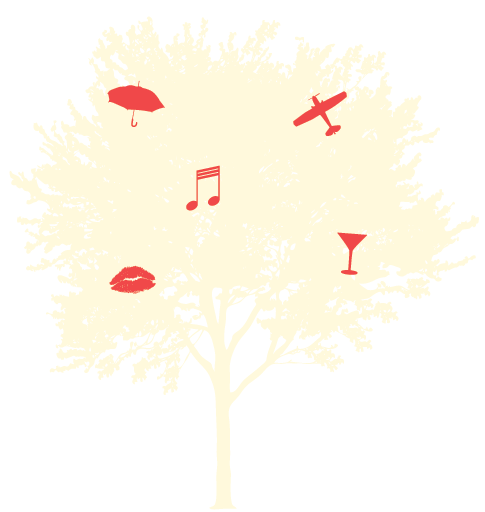
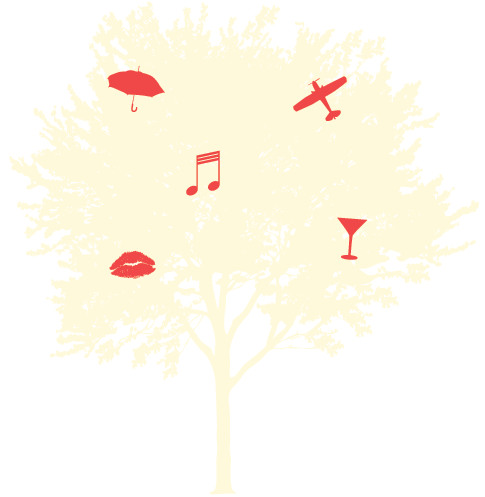
EmirH: new design

diff --git a/CSS/Home.css b/CSS/Home.css
@@ -1,22 +1,37 @@
 @CHARSET "UTF-8";
 
 div.Menu {
+	min-width: 1200px;
+	height: 70px;
+	line-height: 70px;
 	background-color: #F5C1B7;
-	text-align: center;
-}
-
-div.Menu a {
-	color: #E36D6E;
-}
-
-div.Monogram {
-	padding: 234px;
-	text-align: center;
-}
-
-div.stick {
+	font-size: 17px;
 	width: 100%;
 	position: fixed;
 	top: 0px;
 	z-index: 10000;
+	margin-top: 10px;
+	width: 100%;
 }
+
+div.Menu a {
+	color: #E36D6E;
+	text-decoration: none;
+}
+
+div.Menu a:hover {
+	color: #F66768;
+	font-weight: bold;
+}
+
+div.Monogram {
+	padding-top: 234px;
+}
+div.Banner_02 {
+	padding-top: 10px;
+}
+
+div.Center {
+	text-align: center;
+}
+

diff --git a/CSS/Body.css b/CSS/Body.css
@@ -11,14 +11,6 @@ body {
 	font-size: 20px;
 }
 
-a {
-	text-decoration: none;
-}
-
-a:hover {
-	text-decoration: underline;
-}
-
 div {
 	margin: 0px;
 	padding: 0px;

diff --git a/Home.php b/Home.php
@@ -4,8 +4,6 @@
 	DomManager::addCSS('CSS/Home.css');
 	DomManager::addCSS('CSS/Strips.css');
 	DomManager::addScript('Scripts/Utils/jquery-1.8.3.min.js');
-	DomManager::addScript('Scripts/Utils/Async.js');
-	DomManager::addScript('Scripts/Main.js');
 ?>
 
 <!DOCTYPE html PUBLIC "-//W3C//DTD HTML 4.01 Strict//EN" "http://www.w3.org/TR/html4/strict.dtd">
@@ -19,15 +17,7 @@
 
 	</head>
 	<body>
-		<div class="Menu">
-			<a href="#">OUR STORY</a>&nbsp;&nbsp;
-			<a href="#">WEDDING PARTY</a>&nbsp;&nbsp;
-			<a href="#">THE PARTY</a>&nbsp;&nbsp;
-			<a href="#">WHERE TO STAY</a>&nbsp;&nbsp;
-			<a href="#">RSVP</a>&nbsp;&nbsp;
-			<a href="#">SONG REQUESTS</a>&nbsp;&nbsp;
-		</div>
-		<div class="Menu Scroller">
+		<div class="Menu  Center">
 			<a href="#">OUR STORY</a>&nbsp;&nbsp;
 			<a href="#">WEDDING PARTY</a>&nbsp;&nbsp;
 			<a href="#">THE PARTY</a>&nbsp;&nbsp;
@@ -36,21 +26,42 @@
 			<a href="#">SONG REQUESTS</a>&nbsp;&nbsp;
 		</div>
 		<div class="Strip Strip_01">
-			<div class="Monogram">
+			<div class="Monogram Center">
 				<img src="Files/Images/monogram.png" />
 			</div>
 		</div>
-		<div class="Strip Strip_02">
+		<div class="Strip Strip_02 ">
+			<div class="Banner_02  Center">
+				<img src="Files/Images/ourstory.png" />
+			</div>
+			<div class="Tree  Center">
+				<img src="Files/Images/tree.png" />
+			</div>
 		</div>
 		<div class="Strip Strip_03">
+			<div class="Banner_03  Center">
+				<img src="Files/Images/weddingparty.png" />
+			</div>
 		</div>
 		<div class="Strip Strip_04">
+			<div class="Banner_04  Center">
+				<img src="Files/Images/theparty.png" />
+			</div>
 		</div>
 		<div class="Strip Strip_05">
+			<div class="Banner_05  Center">
+				<img src="Files/Images/wheretostay.png" />
+			</div>
 		</div>
 		<div class="Strip Strip_06">
+			<div class="Banner_06  Center">
+				<img src="Files/Images/rsvp.png" />
+			</div>
 		</div>
 		<div class="Strip Strip_07">
+			<div class="Banner_07  Center">
+				<img src="Files/Images/songrequests.png" />
+			</div>
 		</div>
 		
 	</body>
